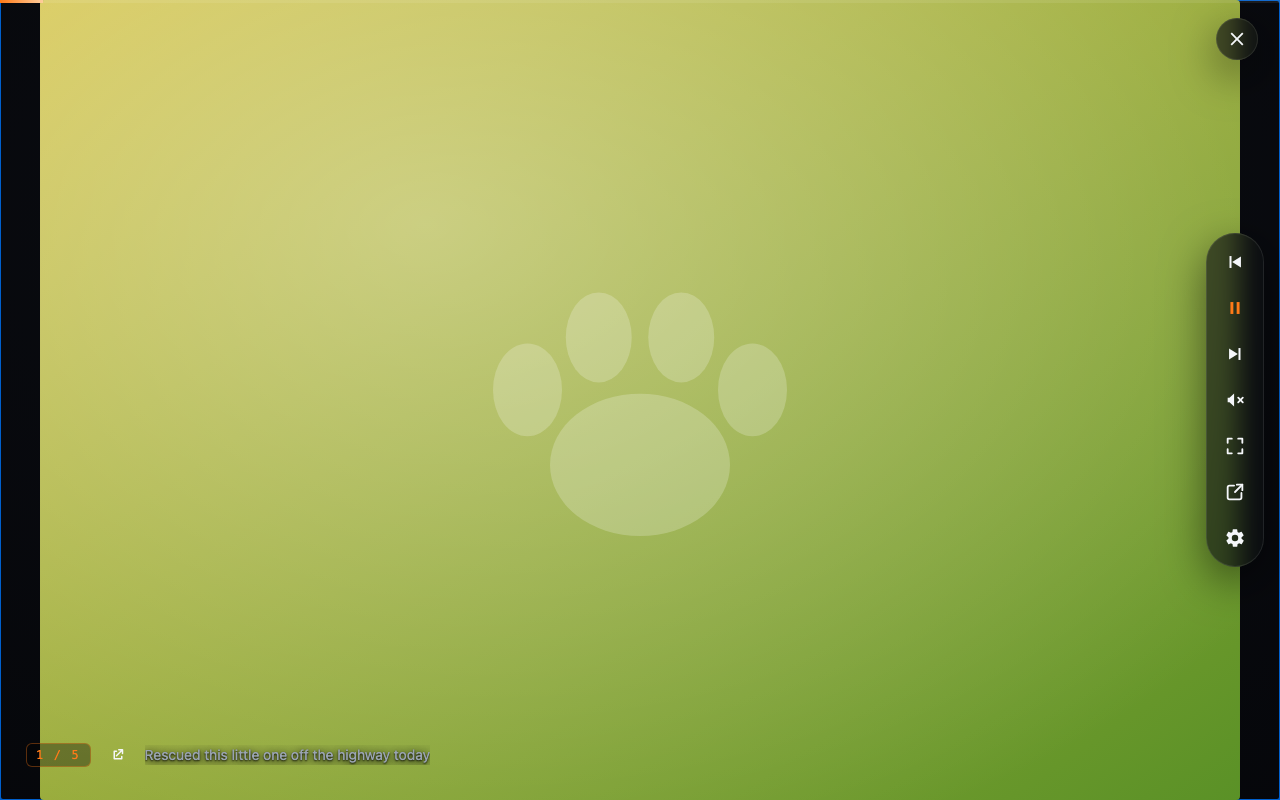
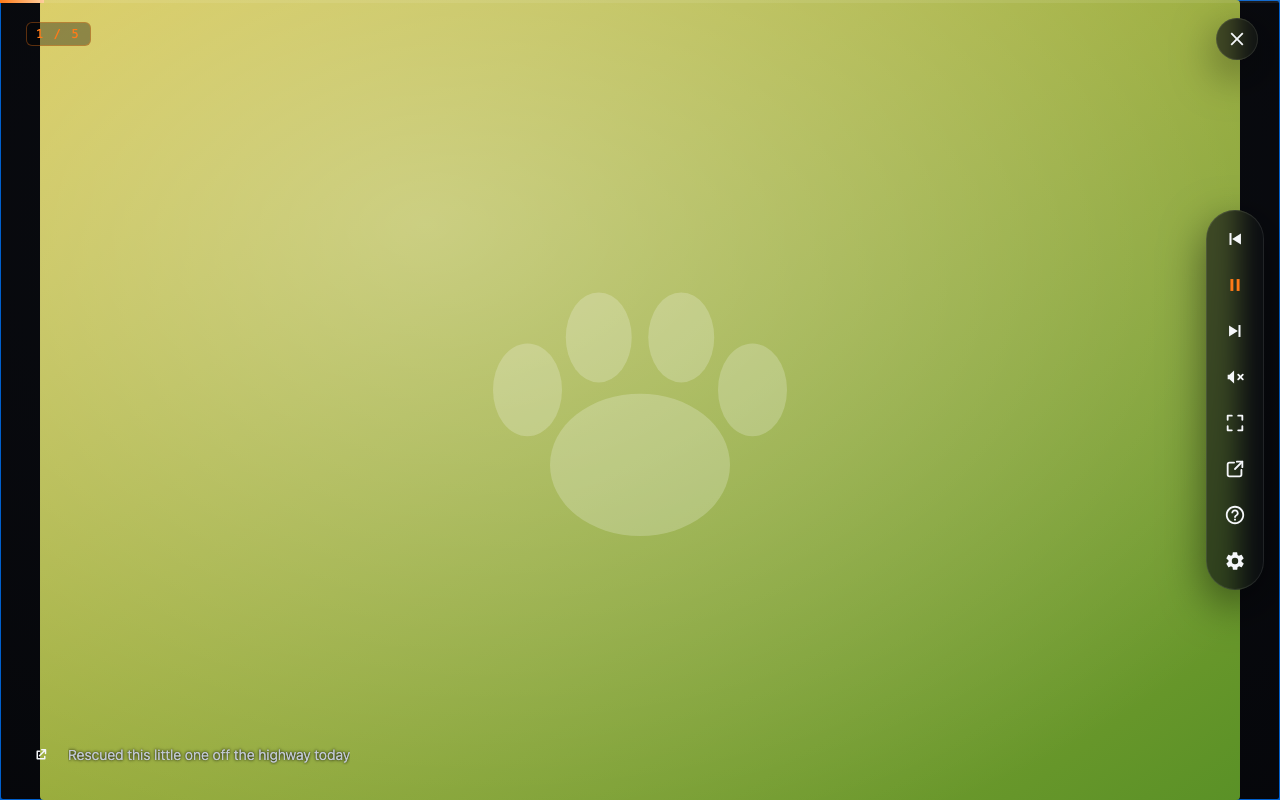
feat(overlay): top-left counter + skipped cluster, two-column jump list
Rework the overlay's top-left chrome and the jump-to-post list:

- Move the position counter out of the bottom meta bar into a new top-left
  cluster (.rs-topleft), with the skipped badge sitting to its right. The
  bottom meta bar keeps the open-original button and title. The cluster
  shares the meta-pin / idle-fade behavior the counter and skipped badge
  had before.
- The jump list and skipped list now both drop from that top-left anchor,
  so they're made mutually exclusive (opening one closes the other). The
  backdrop-dismiss allowlist gains .rs-topleft so a counter click isn't
  immediately re-closed by the lightbox handler.
- The jump list rows are now two columns - the media's domain (source
  host, www. stripped) and its asset type (image / gif / video / embed),
  or "skipped" for an auto-skipped slide - keyed by the position number.
- While loading, the counter has no text; instead of showing an empty
  pill it stays hidden (:empty) and fades in over 200ms once it gets its
  "n / m".

Regenerated docs/screenshots/slideshow.png for the new layout.

diff --git a/assets/overlay.css b/assets/overlay.css
@@ -517,7 +517,8 @@ iframe.reddit-slideshow-media {
 
 #reddit-slideshow-root.rs-idle .rs-controls,
 #reddit-slideshow-root.rs-idle .rs-close-top,
-#reddit-slideshow-root.rs-idle .rs-meta {
+#reddit-slideshow-root.rs-idle .rs-meta,
+#reddit-slideshow-root.rs-idle .rs-topleft {
   opacity: 0;
   pointer-events: none;
 }
@@ -526,15 +527,11 @@ iframe.reddit-slideshow-media {
   transform: translateY(-50%) translateX(12px);
 }
 
-/* "Always show count, title & skips": the meta bar survives the idle fade. It
-   stays non-interactive while idle (the cursor is hidden); a mousemove wakes it. */
-#reddit-slideshow-root.rs-pin-meta.rs-idle .rs-meta {
-  opacity: 1;
-}
-
-/* The skipped badge is part of that pinned context: keep it through the fade too,
-   so a jump in the position count always has its visible explanation. */
-#reddit-slideshow-root.rs-pin-meta.rs-idle .rs-skipped {
+/* "Always show count, title & skips": the bottom meta bar and the top-left
+   cluster (counter + skipped badge) survive the idle fade. They stay
+   non-interactive while idle (the cursor is hidden); a mousemove wakes them. */
+#reddit-slideshow-root.rs-pin-meta.rs-idle .rs-meta,
+#reddit-slideshow-root.rs-pin-meta.rs-idle .rs-topleft {
   opacity: 1;
 }
 
@@ -876,12 +873,21 @@ iframe.reddit-slideshow-media {
   }
 }
 
-/* Skipped (failed media) badge + list */
-.rs-skipped {
+/* Top-left cluster: position counter + skipped badge, side by side. */
+.rs-topleft {
   position: absolute;
   top: 22px;
   left: 26px;
   z-index: 7;
+  display: flex;
+  align-items: center;
+  gap: 10px;
+  transition: opacity 0.35s ease;
+}
+
+/* Skipped (failed media) badge + list */
+.rs-skipped {
+  flex: none;
   font-family:
     ui-monospace, "SF Mono", "JetBrains Mono", Menlo, Consolas, monospace;
   font-size: 11px;
@@ -892,9 +898,7 @@ iframe.reddit-slideshow-media {
   border-radius: 6px;
   padding: 4px 9px;
   cursor: pointer;
-  transition:
-    opacity 0.35s ease,
-    background 0.2s ease;
+  transition: background 0.2s ease;
 }
 
 .rs-skipped[hidden] {
@@ -905,13 +909,9 @@ iframe.reddit-slideshow-media {
   background: rgba(255, 107, 107, 0.18);
 }
 
-#reddit-slideshow-root.rs-idle .rs-skipped {
-  opacity: 0;
-}
-
 .rs-skipped-panel {
   position: absolute;
-  top: 52px;
+  top: 58px;
   left: 26px;
   z-index: 7;
   width: min(360px, 60vw);
@@ -1189,7 +1189,16 @@ iframe.reddit-slideshow-media {
   -webkit-appearance: none;
   transition:
     background 0.2s ease,
-    color 0.2s ease;
+    color 0.2s ease,
+    opacity 200ms ease;
+}
+
+/* Until the first slide sets the position text the counter has no content - keep
+   it hidden (so it isn't a stray empty pill while loading), then fade it in over
+   200ms once it gets its "n / m". */
+.rs-meta__counter:empty {
+  opacity: 0;
+  pointer-events: none;
 }
 
 .rs-meta__counter:hover {
@@ -1235,7 +1244,7 @@ iframe.reddit-slideshow-media {
 .rs-jump-panel {
   position: absolute;
   left: 26px;
-  bottom: 72px;
+  top: 58px;
   z-index: 8;
   width: min(340px, 72vw);
   max-height: 60vh;
@@ -1266,7 +1275,7 @@ iframe.reddit-slideshow-media {
 
 .rs-jump-panel__item {
   display: grid;
-  grid-template-columns: 32px 1fr auto;
+  grid-template-columns: auto 1fr auto;
   align-items: center;
   gap: 10px;
   text-align: left;
@@ -1285,12 +1294,6 @@ iframe.reddit-slideshow-media {
   opacity: 0.55;
 }
 
-.rs-jump-panel__tag {
-  font-size: 11px;
-  color: var(--rs-muted);
-  white-space: nowrap;
-}
-
 .rs-jump-panel__item:hover {
   background: rgba(255, 255, 255, 0.08);
 }
@@ -1307,13 +1310,26 @@ iframe.reddit-slideshow-media {
   text-align: right;
 }
 
-.rs-jump-panel__text {
+/* The domain column: where the media is from. Truncates; min-width:0 lets the
+   1fr grid cell shrink so the ellipsis actually kicks in. */
+.rs-jump-panel__domain {
+  min-width: 0;
   white-space: nowrap;
   overflow: hidden;
   text-overflow: ellipsis;
 }
 
-.rs-jump-panel__item--current .rs-jump-panel__text {
+/* The type column: the asset kind (image / gif / video / embed), or "skipped". */
+.rs-jump-panel__type {
+  font-family: ui-monospace, "SF Mono", Menlo, monospace;
+  font-size: 10px;
+  letter-spacing: 0.08em;
+  text-transform: uppercase;
+  color: var(--rs-muted);
+  white-space: nowrap;
+}
+
+.rs-jump-panel__item--current .rs-jump-panel__domain {
   color: var(--rs-accent);
 }
 

diff --git a/lib/overlay-ui.js b/lib/overlay-ui.js
@@ -2,6 +2,7 @@ import { renderSlide, mediaUrlIsSafe } from "./overlay-render.js";
 import { createSettingsPanel } from "./overlay-settings.js";
 import { createHelpPanel } from "./overlay-help.js";
 import { panZoomAnimation } from "./pan-zoom.js";
+import { hostnameOf } from "./url-utils.js";
 
 /**
  * @typedef {import("./slides.js").Slide} Slide
@@ -32,6 +33,31 @@ function normalizeTransition(name) {
   return typeof name === "string" && TRANSITIONS.includes(name)
     ? name
     : DEFAULT_TRANSITION;
+}
+
+/**
+ * The host the slide's media comes from, for the jump-list "domain" column
+ * (e.g. `i.redd.it`, `redgifs.com`). `www.` is dropped for readability.
+ * @param {Slide} slide
+ * @returns {string}
+ */
+function slideDomain(slide) {
+  const host = hostnameOf(slide.sourceUrl) || hostnameOf(slide.mediaUrl) || "";
+  return host.replace(/^www\./, "");
+}
+
+/**
+ * A short label for what kind of media the slide is, for the jump-list "type"
+ * column. Looping clips (gifs, gifv, giphy) read as "gif" whether they render as
+ * an `<img>` or a `<video>`.
+ * @param {Slide} slide
+ * @returns {string}
+ */
+function slideAssetType(slide) {
+  if (slide.isGif || slide.mimeType === "image/gif") return "gif";
+  if (slide.kind === "video") return "video";
+  if (slide.kind === "embed") return "embed";
+  return "image";
 }
 
 // Cohesive media-player glyphs. `paths` are filled; `strokePaths` are stroked.
@@ -197,7 +223,8 @@ export function createOverlay(handlers, doc = document, styleText) {
   nsfw.className = "rs-meta__nsfw";
   nsfw.textContent = "NSFW";
   nsfw.hidden = true;
-  meta.append(counter, openMetaBtn, nsfw, title);
+  // The counter now lives in the top-left cluster (built below), not this bar.
+  meta.append(openMetaBtn, nsfw, title);
 
   // Jump-to-post list, toggled by clicking the counter.
   const jumpPanel = doc.createElement("div");
@@ -303,6 +330,12 @@ export function createOverlay(handlers, doc = document, styleText) {
   skippedPanel.className = "rs-skipped-panel";
   skippedPanel.hidden = true;
 
+  // Top-left cluster: the position counter (which opens the jump list) with the
+  // skipped badge to its right. Both share the meta-pin / idle-fade behavior.
+  const topLeft = doc.createElement("div");
+  topLeft.className = "rs-topleft";
+  topLeft.append(counter, skippedBtn);
+
   // In-overlay settings, toggled by the gear control.
   const settingsPanel = createSettingsPanel(doc, {
     onChange: (patch) => handlers.onChangeSetting?.(patch),
@@ -376,12 +409,12 @@ export function createOverlay(handlers, doc = document, styleText) {
     timerBar,
     stage,
     meta,
+    topLeft,
     jumpPanel,
     controls,
     closeBtn,
     buffering,
     loading,
-    skippedBtn,
     skippedPanel,
     settingsPanel.root,
     helpPanel.root,
@@ -577,11 +610,11 @@ export function createOverlay(handlers, doc = document, styleText) {
       target.closest(".rs-btn") || // a control button (incl. the X)
       target.closest(".rs-slide") || // the media frame
       target.closest(".rs-placeholder") || // the failure card (has its own button)
-      target.closest(".rs-skipped") || // the skipped badge
+      target.closest(".rs-topleft") || // the counter + skipped badge cluster
       target.closest(".rs-skipped-panel") || // the skipped list
       target.closest(".rs-settings-panel") || // the inline settings
       target.closest(".rs-help-panel") || // the shortcuts list
-      target.closest(".rs-meta") || // the meta bar (counter / open / title)
+      target.closest(".rs-meta") || // the bottom meta bar (open original / title)
       target.closest(".rs-jump-panel") || // the jump-to-post list
       target.closest(".rs-confirm") // the close-confirm popover
     ) {
@@ -637,12 +670,16 @@ export function createOverlay(handlers, doc = document, styleText) {
   skippedBtn.addEventListener("click", () => {
     if (skippedPanel.hidden) renderSkippedPanel();
     skippedPanel.hidden = !skippedPanel.hidden;
+    // Both panels drop from the same top-left anchor, so don't stack them.
+    if (!skippedPanel.hidden) jumpPanel.hidden = true;
   });
 
   counter.addEventListener("click", () => {
     const opening = jumpPanel.hidden;
     if (opening) renderJumpPanel();
     jumpPanel.hidden = !jumpPanel.hidden;
+    // Both panels drop from the same top-left anchor, so don't stack them.
+    if (opening) skippedPanel.hidden = true;
     // Scroll to the current post only once the panel is actually displayed -
     // scrollIntoView does nothing while the panel is still `display:none`.
     if (opening) scrollJumpToCurrent();
@@ -668,23 +705,21 @@ export function createOverlay(handlers, doc = document, styleText) {
       const num = doc.createElement("span");
       num.className = "rs-jump-panel__num";
       num.textContent = String(baseNumber + i);
-      const text = doc.createElement("span");
-      text.className = "rs-jump-panel__text";
-      const label = slide.title || slide.sourceUrl || "Untitled";
-      text.textContent =
-        slide.galleryTotal && slide.galleryTotal > 1
-          ? `${label} (${slide.galleryIndex}/${slide.galleryTotal})`
-          : label;
-      item.append(num, text);
-      // Auto-skipped slides stay in the list but read as dimmed and tagged, so
-      // the numbering still lines up with what played.
+      // Two columns: where the media is from, and what kind it is.
+      const domain = doc.createElement("span");
+      domain.className = "rs-jump-panel__domain";
+      domain.textContent = slideDomain(slide);
+      const type = doc.createElement("span");
+      type.className = "rs-jump-panel__type";
+      // Auto-skipped slides stay listed (so the numbering still lines up with
+      // what played) but read as dimmed, with the type column flagging the skip.
       if (slide.skipReason) {
         item.classList.add("rs-jump-panel__item--skipped");
-        const tag = doc.createElement("span");
-        tag.className = "rs-jump-panel__tag";
-        tag.textContent = "(skipped)";
-        item.append(tag);
+        type.textContent = "skipped";
+      } else {
+        type.textContent = slideAssetType(slide);
       }
+      item.append(num, domain, type);
       item.addEventListener("click", () => {
         jumpPanel.hidden = true;
         handlers.onJumpTo?.(i);

diff --git a/tests/unit/overlay-ui.test.js b/tests/unit/overlay-ui.test.js
@@ -748,12 +748,17 @@ describe("createOverlay", () => {
     ).toBe("Duplicate image");
   });
 
-  it("dims and tags auto-skipped slides in the jump list", () => {
+  it("shows domain + type columns and flags auto-skipped slides in the jump list", () => {
     const overlay = createOverlay(noopHandlers());
     overlay.setJumpList(
       [
-        imageSlide({ title: "kept" }),
-        imageSlide({ title: "gone", skipReason: "Unavailable" }),
+        imageSlide({ sourceUrl: "https://i.redd.it/a.jpg" }),
+        imageSlide({ kind: "video", sourceUrl: "https://v.redd.it/b" }),
+        imageSlide({ isGif: true, sourceUrl: "https://i.imgur.com/c.gif" }),
+        imageSlide({
+          skipReason: "Unavailable",
+          sourceUrl: "https://www.redgifs.com/watch/d",
+        }),
       ],
       0,
       1,
@@ -761,16 +766,30 @@ describe("createOverlay", () => {
     /** @type {HTMLElement} */ (
       overlay.root.querySelector(".rs-meta__counter")
     ).dispatchEvent(new Event("click", { bubbles: true }));
+    // The click bubbles to the backdrop handler; the counter's cluster must be on
+    // its allowlist or the panel would be dismissed the instant it opened.
+    expect(
+      /** @type {HTMLElement | null} */ (
+        overlay.root.querySelector(".rs-jump-panel")
+      )?.hidden,
+    ).toBe(false);
     const items = overlay.root.querySelectorAll(".rs-jump-panel__item");
-    expect(items[0].classList.contains("rs-jump-panel__item--skipped")).toBe(
-      false,
-    );
-    expect(items[1].classList.contains("rs-jump-panel__item--skipped")).toBe(
+    const domain = (/** @type {number} */ i) =>
+      items[i].querySelector(".rs-jump-panel__domain")?.textContent;
+    const type = (/** @type {number} */ i) =>
+      items[i].querySelector(".rs-jump-panel__type")?.textContent;
+    // Domain column = source host (www. stripped); type column = asset kind.
+    expect(domain(0)).toBe("i.redd.it");
+    expect(type(0)).toBe("image");
+    expect(type(1)).toBe("video");
+    expect(domain(2)).toBe("i.imgur.com");
+    expect(type(2)).toBe("gif");
+    // An auto-skipped slide stays listed, dimmed, with the type column flagging it.
+    expect(domain(3)).toBe("redgifs.com");
+    expect(items[3].classList.contains("rs-jump-panel__item--skipped")).toBe(
       true,
     );
-    expect(items[1].querySelector(".rs-jump-panel__tag")?.textContent).toBe(
-      "(skipped)",
-    );
+    expect(type(3)).toBe("skipped");
   });
 
   it("scrolls to the current post once the jump panel is shown, not while hidden", () => {